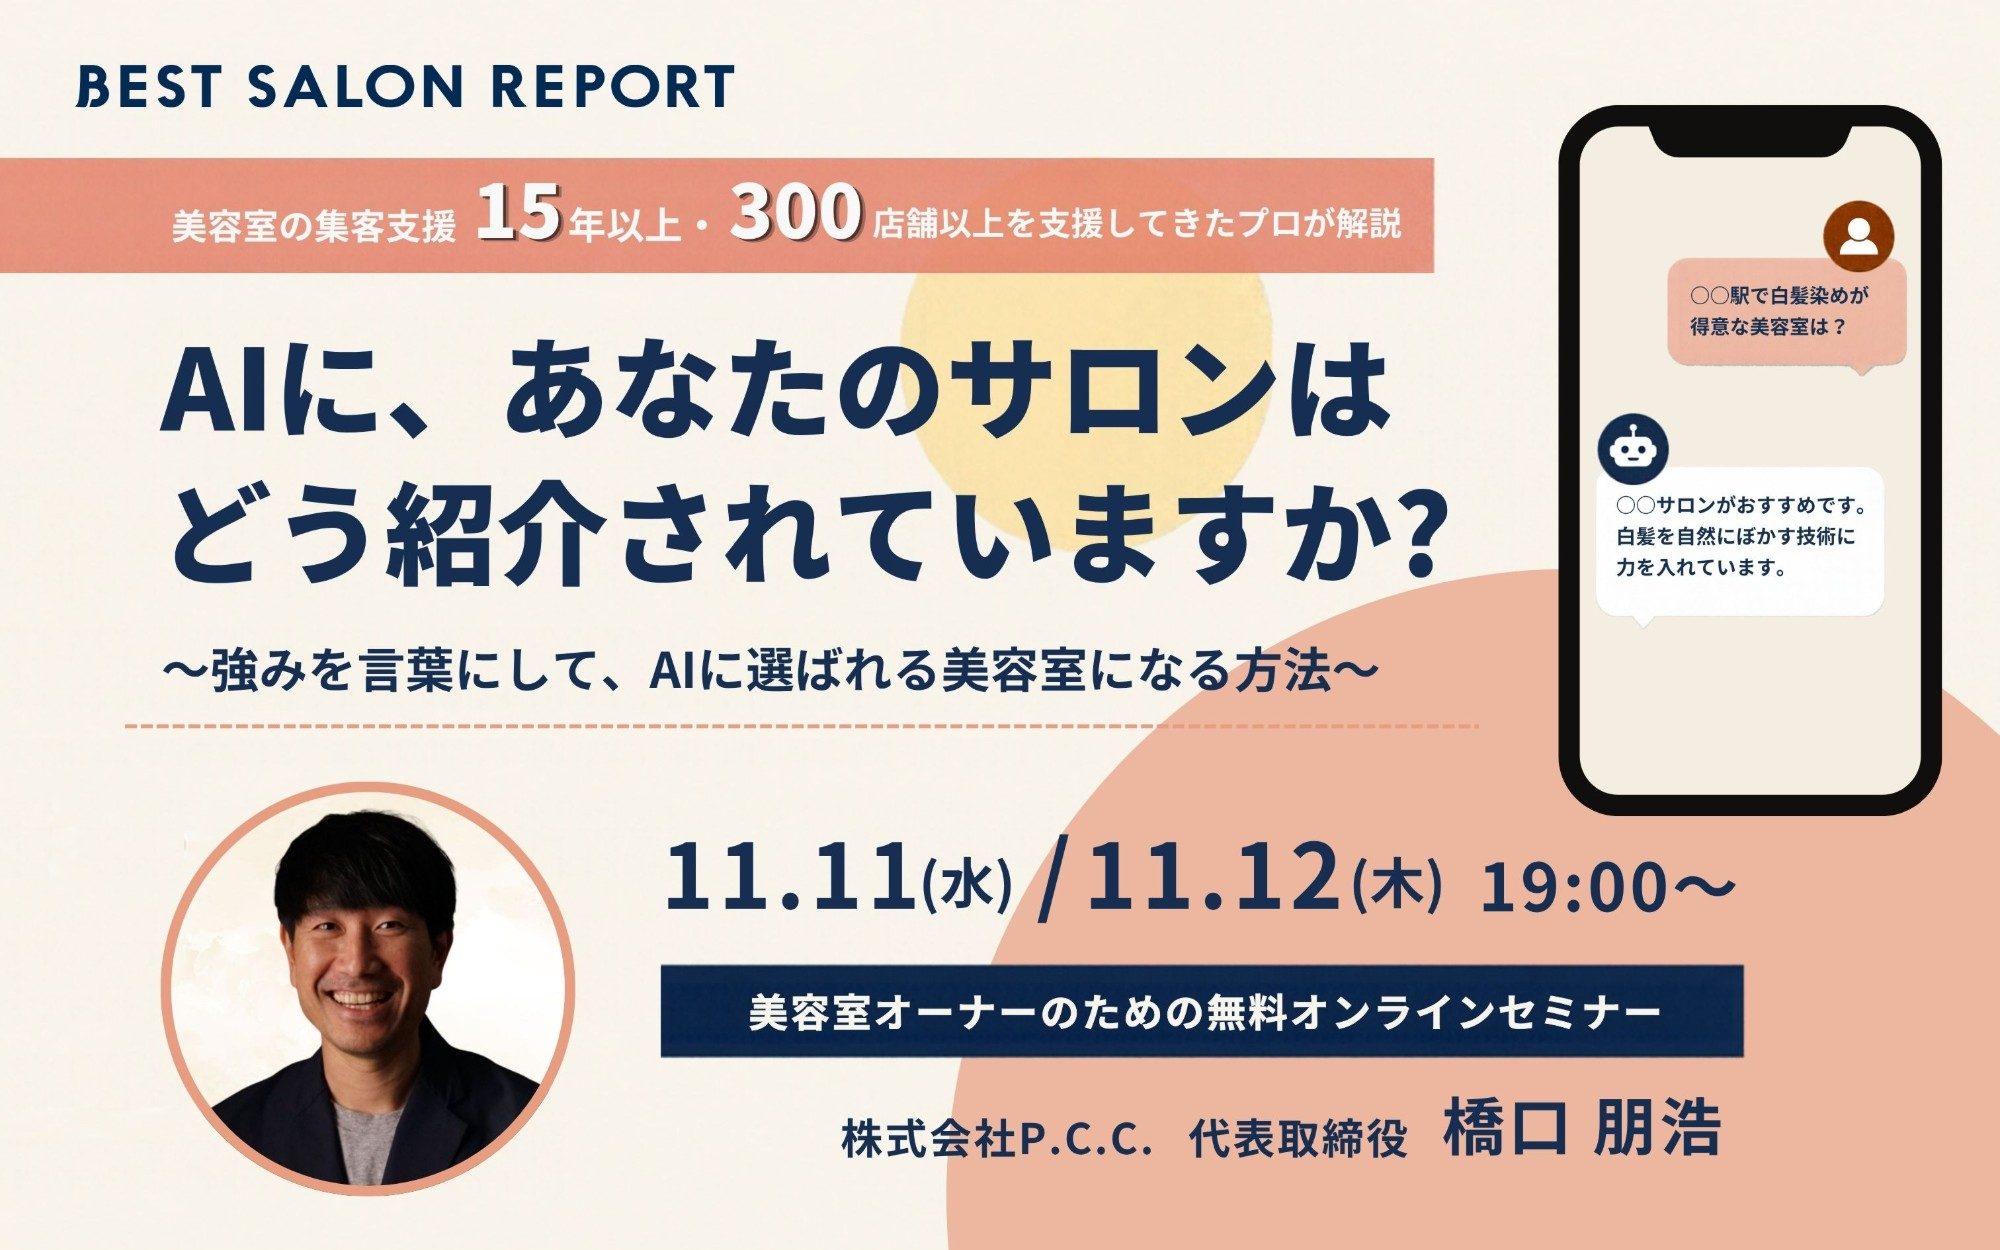
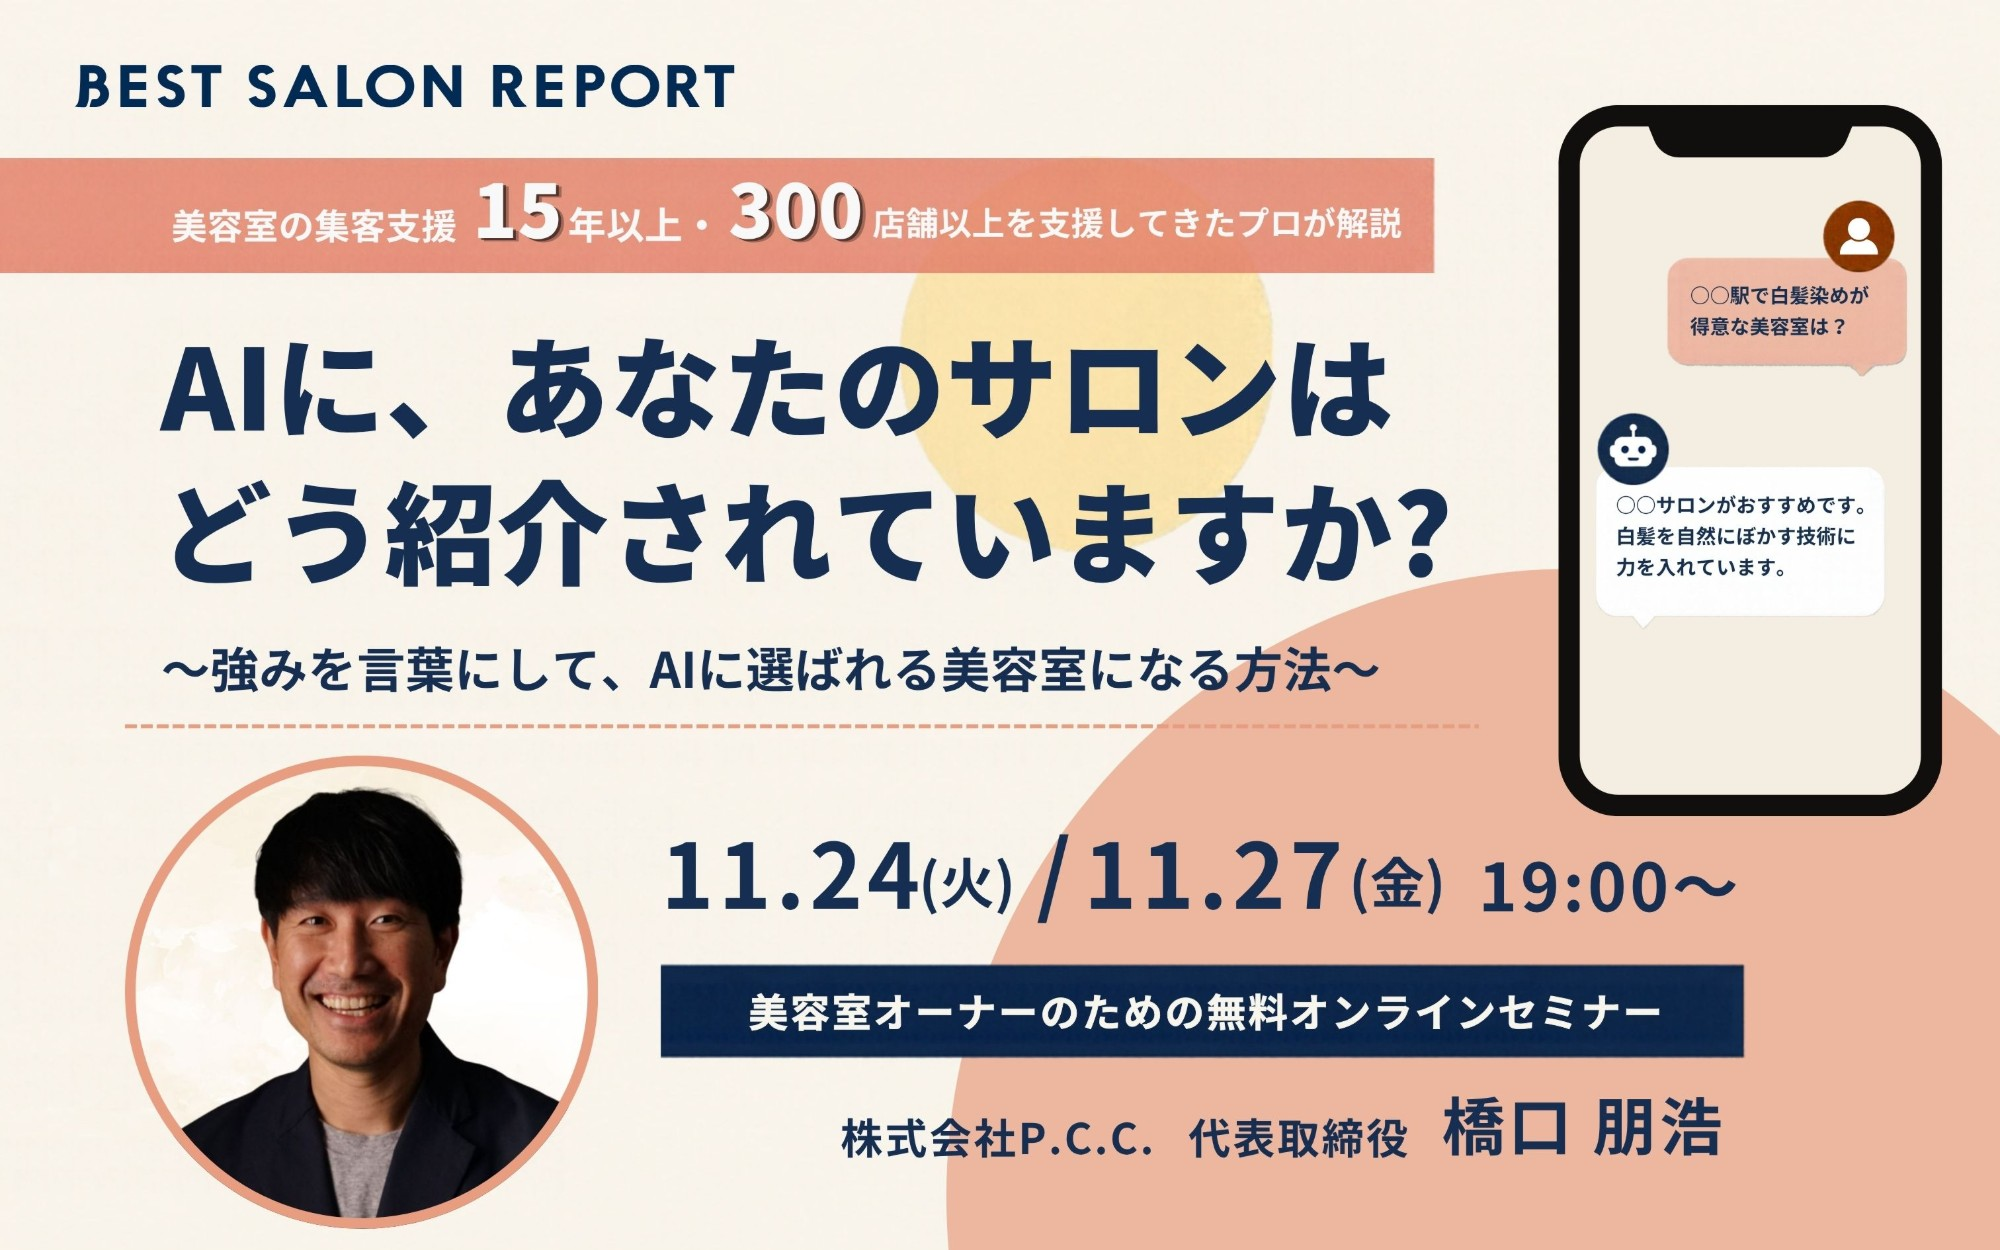
Move seminar to 11/24 (Tue) and 11/27 (Fri)
New banner, dates on the page and in the form, deadline 11/27 18:59,
and matching dates in the Apps Script code and auto-reply.

Claude-Session: https://claude.ai/code/session_01TvRpUMYCEd6DzYGA2aANFB

Changed region(s): [[0.062, 0.5928, 0.31, 0.9984], [0.403, 0.6552, 0.496, 0.7488], [0.62, 0.6552, 0.713, 0.7488]]

diff --git a/index.html b/index.html
@@ -389,7 +389,7 @@ h3 {
   <main class="leftcontainer">
 
     <!-- ① メインバナー -->
-    <img class="banner" src="assets/banner.jpg" width="2000" height="1250" alt="美容室の集客支援15年以上・300店舗以上を支援してきたプロが解説 AIに、あなたのサロンはどう紹介されていますか？ 11月11日（水）・12日（木）19:00〜 美容室オーナーのための無料オンラインセミナー">
+    <img class="banner" src="assets/banner.jpg" width="2000" height="1250" alt="美容室の集客支援15年以上・300店舗以上を支援してきたプロが解説 AIに、あなたのサロンはどう紹介されていますか？ 11月24日（火）・27日（金）19:00〜 美容室オーナーのための無料オンラインセミナー">
     <a href="#apply" class="btn js-to-form">お申し込みはこちら（無料）</a>
 
     <!-- ② セミナー概要 -->
@@ -399,7 +399,7 @@ h3 {
         <p class="wall-title">【無料オンラインセミナー】<br>AIに、あなたのサロンはどう紹介されていますか？<br>〜強みを言葉にして、AIに選ばれる美容室になる方法〜</p>
         <dl>
           <dt>開催日時</dt>
-          <dd>2026年11月11日（水）・11月12日（木）19:00〜<br><span class="note">※両日とも同じ内容です。ご都合のよい日をお選びください</span></dd>
+          <dd>2026年11月24日（火）・11月27日（金）19:00〜<br><span class="note">※両日とも同じ内容です。ご都合のよい日をお選びください</span></dd>
           <dt>開催場所</dt>
           <dd>オンライン（Zoom）開催</dd>
           <dt>主催</dt>
@@ -461,8 +461,8 @@ h3 {
         <div class="field" data-field="date">
           <span class="label" id="dateLabel">参加希望日<span class="req">必須</span></span>
           <div role="radiogroup" aria-labelledby="dateLabel">
-            <label class="choice"><input type="radio" name="date" value="2026-11-11">11月11日（水）19:00〜</label>
-            <label class="choice"><input type="radio" name="date" value="2026-11-12">11月12日（木）19:00〜</label>
+            <label class="choice"><input type="radio" name="date" value="2026-11-24">11月24日（火）19:00〜</label>
+            <label class="choice"><input type="radio" name="date" value="2026-11-27">11月27日（金）19:00〜</label>
           </div>
           <p class="error-msg" id="err-date"></p>
         </div>
@@ -546,7 +546,7 @@ h3 {
     // セミナー専用のLINE友だち追加URL（例：セミナー_申込LP_2026-11）
     LINE_URL: 'https://lin.ee/wntrqKD',
     // 申込締切（この時刻になったら受付終了。日本時間）
-    DEADLINE: '2026-11-12T19:00:00+09:00'
+    DEADLINE: '2026-11-27T19:00:00+09:00'
   };
   // =================================
 

diff --git a/README.md b/README.md
@@ -20,7 +20,7 @@ gas/Code.gs         申し込み受付（Google Apps Script）
 | `gas/Code.gs` の `CONFIG.FROM_ADDRESS` | `info@pccinc.jp` | 自動返信・社内通知の送信元。s.mori のGmailに送信元エイリアスとして登録済み。空欄にすると s.mori@pccinc.jp から送信 |
 | `gas/Code.gs` の `CONFIG.NOTIFY_TO` | `support@pccinc.jp` | 申し込みがあったことを知らせる社内向けメールの宛先（返信すると申込者に届く） |
 
-申込締切は `index.html` と `gas/Code.gs` の `DEADLINE`（2026-11-12 19:00 日本時間。18:59まで受付）。変える場合は両方を同じ値にします。
+申込締切は `index.html` と `gas/Code.gs` の `DEADLINE`（2026-11-27 19:00 日本時間。18:59まで受付）。変える場合は両方を同じ値にします。
 
 ## ローカルでの確認
 
